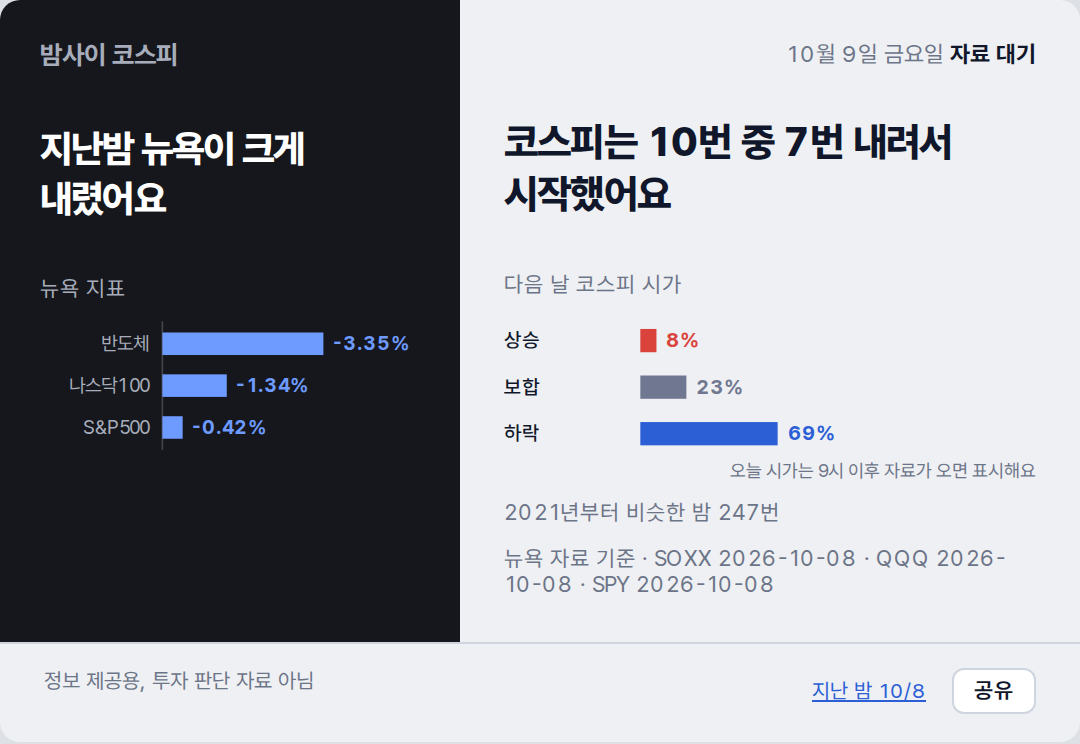
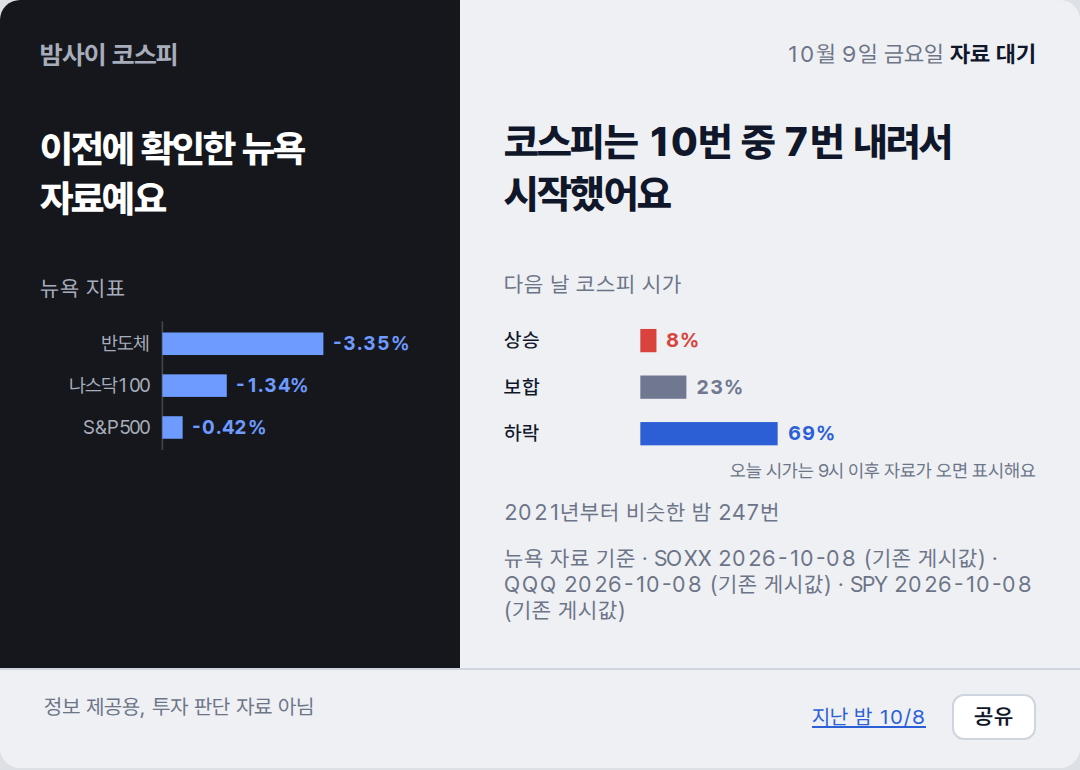
deploy: c0d07a214321b41f7cf333fef670b17ffe5b5852

diff --git a/2026-10-09/index.html b/2026-10-09/index.html
@@ -2,7 +2,7 @@
 <title>밤사이 코스피 · 2026-10-09</title>
 <meta name="description" content="전일 코스피 마감에서 밤사이 뉴욕을 거쳐 오늘 코스피 시가까지, 한 장.">
 <meta property="og:type" content="article"><meta property="og:site_name" content="밤사이 코스피"><meta property="og:url" content="https://mjs0611.github.io/kospi-relay/2026-10-09/">
-<meta property="og:title" content="지난밤 뉴욕이 크게 내렸어요"><meta property="og:description" content="코스피는 10번 중 7번 내려서 시작했어요">
+<meta property="og:title" content="이전에 확인한 뉴욕 자료예요"><meta property="og:description" content="코스피는 10번 중 7번 내려서 시작했어요">
 <meta property="og:image" content="https://mjs0611.github.io/kospi-relay/2026-10-09/relay.png"><meta property="og:image:width" content="1080"><meta name="twitter:card" content="summary_large_image">
 <link rel="stylesheet" href="https://cdn.jsdelivr.net/gh/orioncactus/pretendard@v1.3.9/dist/web/variable/pretendardvariable-dynamic-subset.min.css">
 <style>
@@ -26,7 +26,7 @@ footer a{color:#2C5FD6}
 .share{margin-left:10px;border:1px solid #CFD5DE;background:#FFF;color:#10172A;border-radius:6px;padding:4px 10px;font:600 11px var(--sans);cursor:pointer}
 @media (max-width:480px){.sheet{grid-template-columns:1fr}.cond{margin-top:18px}.claim{margin-top:4px}}
 </style></head><body><div class="sheet">
-<section class="night"><p class="brand">밤사이 코스피</p><p class="cond">지난밤 뉴욕이 크게 내렸어요</p><p class="lab">뉴욕 지표</p><svg viewBox="0 0 236 84" xmlns="http://www.w3.org/2000/svg" font-family="var(--sans)" font-size="12">
+<section class="night"><p class="brand">밤사이 코스피</p><p class="cond">이전에 확인한 뉴욕 자료예요</p><p class="lab">뉴욕 지표</p><svg viewBox="0 0 236 84" xmlns="http://www.w3.org/2000/svg" font-family="var(--sans)" font-size="12">
 <line x1="76" y1="2" x2="76" y2="82" stroke="var(--rule)" stroke-width="1"/>
 <text x="68" y="20" text-anchor="end" fill="var(--muted)">반도체</text>
 <rect x="76" y="9" width="100.0" height="14" fill="var(--down)"/>
@@ -49,12 +49,12 @@ footer a{color:#2C5FD6}
 <rect x="82" y="65" width="82.6" height="14" fill="var(--down)"/>
 <text x="170.6" y="76" fill="var(--down)" font-weight="700">69%</text>
 <text x="320" y="98" text-anchor="end" fill="var(--muted)" font-size="11">오늘 시가는 9시 이후 자료가 오면 표시해요</text>
-</svg><p class="cap">2021년부터 비슷한 밤 247번</p><p class="cap">뉴욕 자료 기준 · SOXX 2026-10-08 · QQQ 2026-10-08 · SPY 2026-10-08</p></section>
+</svg><p class="cap">2021년부터 비슷한 밤 247번</p><p class="cap">뉴욕 자료 기준 · SOXX 2026-10-08 (기존 게시값) · QQQ 2026-10-08 (기존 게시값) · SPY 2026-10-08 (기존 게시값)</p></section>
 <footer><span>정보 제공용, 투자 판단 자료 아님</span><span style="white-space:nowrap"><a href="../2026-10-08/">지난 밤 10/8</a> <button class="share" type="button">공유</button></span></footer>
 <script>
 /* 공유: Web Share가 있으면 시스템 공유 시트, 없으면 링크 복사. 링크는 이 날짜 페이지(OG 카드 붙음) */
 document.querySelector('.share').addEventListener('click', async function () {
-  var url = 'https://mjs0611.github.io/kospi-relay/2026-10-09/', text = "지난밤 뉴욕이 크게 내렸어요. 코스피는 10번 중 7번 내려서 시작했어요";
+  var url = 'https://mjs0611.github.io/kospi-relay/2026-10-09/', text = "이전에 확인한 뉴욕 자료예요. 코스피는 10번 중 7번 내려서 시작했어요";
   try { if (navigator.share) { await navigator.share({ title: '밤사이 코스피', text: text, url: url }); return; } } catch (e) { if (e && e.name === 'AbortError') return; }
   try { await navigator.clipboard.writeText(text + '\n' + url); this.textContent = '링크 복사됨'; } catch (e) { location.href = url; }
 });

diff --git a/index.html b/index.html
@@ -2,7 +2,7 @@
 <title>밤사이 코스피 · 2026-10-09</title>
 <meta name="description" content="전일 코스피 마감에서 밤사이 뉴욕을 거쳐 오늘 코스피 시가까지, 한 장.">
 <meta property="og:type" content="article"><meta property="og:site_name" content="밤사이 코스피"><meta property="og:url" content="https://mjs0611.github.io/kospi-relay/2026-10-09/">
-<meta property="og:title" content="지난밤 뉴욕이 크게 내렸어요"><meta property="og:description" content="코스피는 10번 중 7번 내려서 시작했어요">
+<meta property="og:title" content="이전에 확인한 뉴욕 자료예요"><meta property="og:description" content="코스피는 10번 중 7번 내려서 시작했어요">
 <meta property="og:image" content="https://mjs0611.github.io/kospi-relay/2026-10-09/relay.png"><meta property="og:image:width" content="1080"><meta name="twitter:card" content="summary_large_image">
 <link rel="stylesheet" href="https://cdn.jsdelivr.net/gh/orioncactus/pretendard@v1.3.9/dist/web/variable/pretendardvariable-dynamic-subset.min.css">
 <style>
@@ -26,7 +26,7 @@ footer a{color:#2C5FD6}
 .share{margin-left:10px;border:1px solid #CFD5DE;background:#FFF;color:#10172A;border-radius:6px;padding:4px 10px;font:600 11px var(--sans);cursor:pointer}
 @media (max-width:480px){.sheet{grid-template-columns:1fr}.cond{margin-top:18px}.claim{margin-top:4px}}
 </style></head><body><div class="sheet">
-<section class="night"><p class="brand">밤사이 코스피</p><p class="cond">지난밤 뉴욕이 크게 내렸어요</p><p class="lab">뉴욕 지표</p><svg viewBox="0 0 236 84" xmlns="http://www.w3.org/2000/svg" font-family="var(--sans)" font-size="12">
+<section class="night"><p class="brand">밤사이 코스피</p><p class="cond">이전에 확인한 뉴욕 자료예요</p><p class="lab">뉴욕 지표</p><svg viewBox="0 0 236 84" xmlns="http://www.w3.org/2000/svg" font-family="var(--sans)" font-size="12">
 <line x1="76" y1="2" x2="76" y2="82" stroke="var(--rule)" stroke-width="1"/>
 <text x="68" y="20" text-anchor="end" fill="var(--muted)">반도체</text>
 <rect x="76" y="9" width="100.0" height="14" fill="var(--down)"/>
@@ -49,12 +49,12 @@ footer a{color:#2C5FD6}
 <rect x="82" y="65" width="82.6" height="14" fill="var(--down)"/>
 <text x="170.6" y="76" fill="var(--down)" font-weight="700">69%</text>
 <text x="320" y="98" text-anchor="end" fill="var(--muted)" font-size="11">오늘 시가는 9시 이후 자료가 오면 표시해요</text>
-</svg><p class="cap">2021년부터 비슷한 밤 247번</p><p class="cap">뉴욕 자료 기준 · SOXX 2026-10-08 · QQQ 2026-10-08 · SPY 2026-10-08</p></section>
+</svg><p class="cap">2021년부터 비슷한 밤 247번</p><p class="cap">뉴욕 자료 기준 · SOXX 2026-10-08 (기존 게시값) · QQQ 2026-10-08 (기존 게시값) · SPY 2026-10-08 (기존 게시값)</p></section>
 <footer><span>정보 제공용, 투자 판단 자료 아님</span><span style="white-space:nowrap"><a href="./2026-10-08/">지난 밤 10/8</a> <button class="share" type="button">공유</button></span></footer>
 <script>
 /* 공유: Web Share가 있으면 시스템 공유 시트, 없으면 링크 복사. 링크는 이 날짜 페이지(OG 카드 붙음) */
 document.querySelector('.share').addEventListener('click', async function () {
-  var url = 'https://mjs0611.github.io/kospi-relay/2026-10-09/', text = "지난밤 뉴욕이 크게 내렸어요. 코스피는 10번 중 7번 내려서 시작했어요";
+  var url = 'https://mjs0611.github.io/kospi-relay/2026-10-09/', text = "이전에 확인한 뉴욕 자료예요. 코스피는 10번 중 7번 내려서 시작했어요";
   try { if (navigator.share) { await navigator.share({ title: '밤사이 코스피', text: text, url: url }); return; } } catch (e) { if (e && e.name === 'AbortError') return; }
   try { await navigator.clipboard.writeText(text + '\n' + url); this.textContent = '링크 복사됨'; } catch (e) { location.href = url; }
 });
